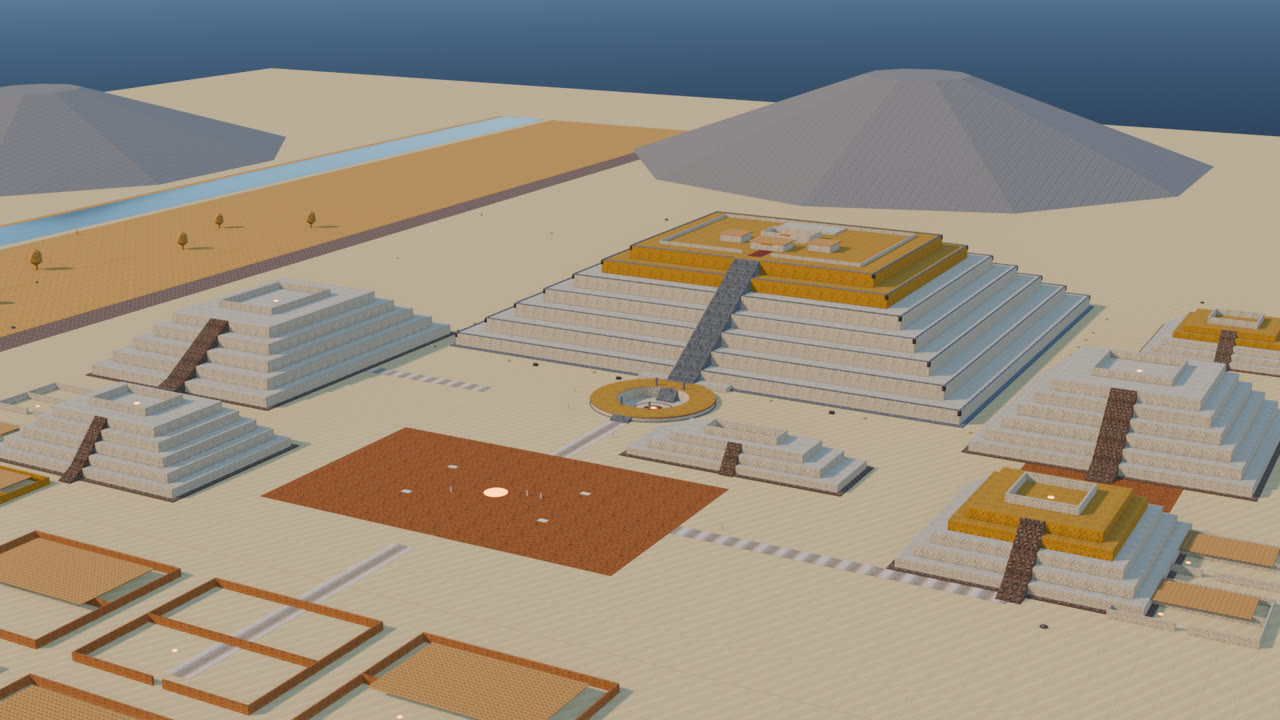
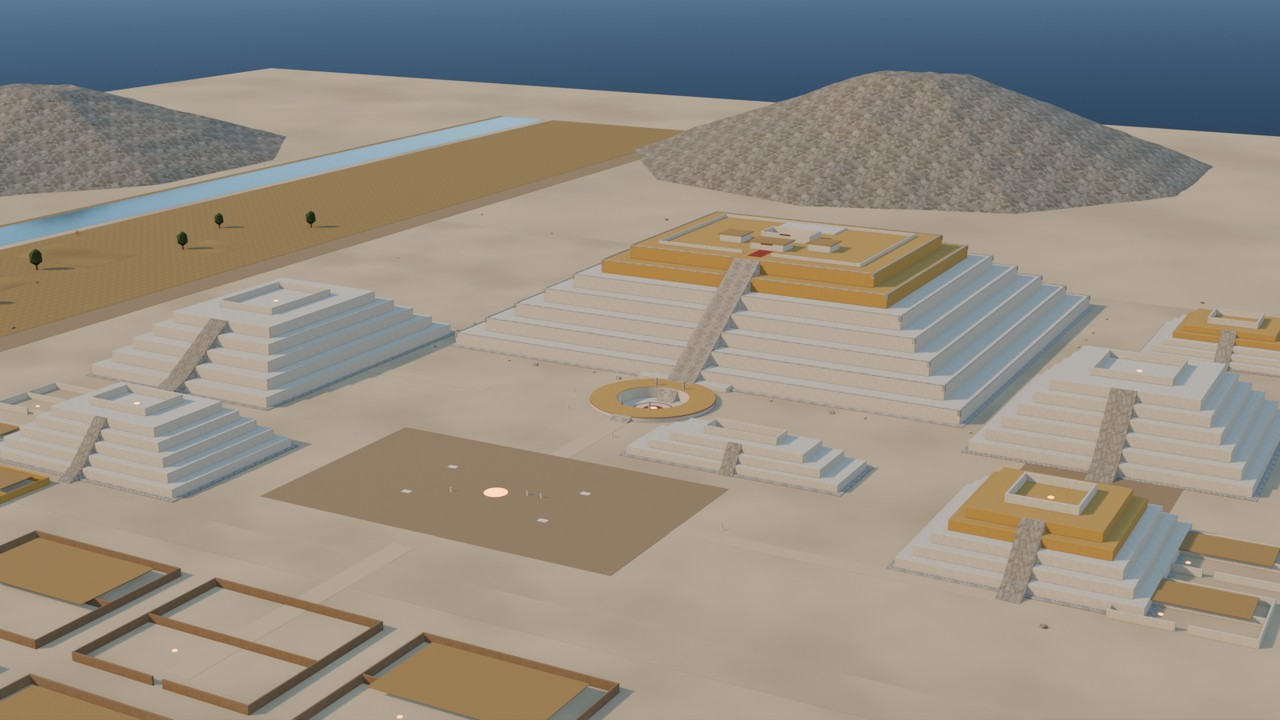
feat(caral): cerrar remaster v1 y metadatos de publicación

diff --git a/src/ui/city.js b/src/ui/city.js
@@ -70,7 +70,7 @@ export function renderCity(root, city) {
           <span class="eyebrow">${city.culture}</span>
           <h1>${city.name}</h1>
           <p>${city.subtitle}</p>
-          ${city.stage === 'piloto' ? '<span class="stage">Piloto · en remasterización</span>' : city.stage === 'preview' ? '<span class="stage">Remaster · preview</span>' : ''}
+          ${city.stage === 'piloto' ? '<span class="stage">Piloto · en remasterización</span>' : city.stage === 'v1' ? '<span class="stage">Remaster · v1</span>' : city.stage === 'preview' ? '<span class="stage">Remaster · preview</span>' : ''}
         </div>
         <div class="city-tools">
           <button id="sound" class="tool" type="button" aria-pressed="false">Sonido <span class="tool__dot"></span></button>

diff --git a/src/ui/catalog.js b/src/ui/catalog.js
@@ -3,7 +3,7 @@ export function renderCatalog(root, cities) {
   const cards = cities
     .map((city) => {
       const available = city.status === 'available';
-      const stage = city.stage === 'piloto' ? 'Piloto' : available ? 'Disponible' : 'En investigación';
+      const stage = city.stage === 'piloto' ? 'Piloto' : city.stage === 'v1' ? 'Remaster v1' : available ? 'Disponible' : 'En investigación';
       const media = city.thumb
         ? `<div class="city-card__media" style="background-image:url('${city.thumb}')"></div>`
         : `<div class="city-card__media city-card__media--empty" style="--accent:${city.accent}">

diff --git a/docs/estado.md b/docs/estado.md
@@ -21,12 +21,12 @@
 - Fase 3 (materiales) iniciada: pase procedural en 134 slots de arquitectura, plazas y suelo; banding corregido; GLB de prueba de 8,5 MB y 55.944 tris.
 - Terreno v1: arena macro 2K con UVs a gran escala en site apron, base, orilla y rambla; sin retícula visible.
 - Visor alineado: AgX, PMREM, luz cálida y cámara inicial desde el sur; recorrido 2–5 revisado y FOV responsivo en móvil; capturas en `docs/remaster/caral/viewer-*.jpg`.
-- RC local en `release/caral-remaster-final`: GLB de 4,8 MB, 20 materiales y 31 imágenes; sin texturas de IA; metadatos y caché `v3` preparados; no publicado.
+- Remaster v1 listo en `release/caral-remaster-final`: GLB de 4,8 MB, 20 materiales y 31 imágenes; sin texturas de IA; metadatos y caché `v3` preparados; pendiente PR y deploy.
 - Capturas en `docs/capturas/` y `docs/remaster/caral/`.
 
 ## Pendiente
 
-1. **Remaster de Caral**: completar arquitectura high-poly, bake y QA visual; materiales y terreno del preview ya están listos.
+1. **Remaster de Caral**: completar arquitectura high-poly, bake y QA visual; materiales y terreno del remaster v1 ya están listos.
 2. **Auditoría de texturas de Caral**: confirmar términos de las texturas de IA del piloto o sustituirlas por CC0/procedurales.
 3. **Chavín, Chan Chan y Wari**: modelos 3D, recorridos y fichas visuales.
 4. **Narración en español**: guion y grabación para el kiosco.
@@ -36,13 +36,13 @@
 
 ## Limitaciones conocidas
 
-- El preview del remaster conserva geometría esquemática; el piloto sigue publicado en `main`.
-- El pase procedural ya cubre arquitectura, plazas, suelo, terreno, roca, vegetación, adobe, totora y madera; el GLB del preview no incluye texturas de IA.
-- El GLB del piloto pesa ~20,7 MB; el GLB del preview del remaster pesa 4,8 MB y todavía no se publica.
+- El remaster v1 conserva geometría esquemática; el piloto sigue publicado en `main` hasta el merge.
+- El pase procedural ya cubre arquitectura, plazas, suelo, terreno, roca, vegetación, adobe, totora y madera; el GLB v1 no incluye texturas de IA.
+- El GLB del piloto pesa ~20,7 MB; el GLB v1 pesa 4,8 MB y está pendiente de PR/deploy.
 - El visor añade un plano de arena plano bajo el modelo; el terreno del GLB ya tiene variación macro.
 - Wari no está en la Lista del Patrimonio Mundial; su ficha se basa en Ministerio de Cultura y academia.
 - La narración aún no existe; solo hay ambiente procedural.
 
 ## Próximo paso recomendado
 
-Completar muros high-poly + bake y validar en hardware; después aprobar el reemplazo público del preview.
+Abrir PR, mergear y verificar Pages. High-poly/bake y hardware real quedan como v2.

diff --git a/docs/remaster/caral/release-v1.md b/docs/remaster/caral/release-v1.md
@@ -1,6 +1,6 @@
-# Release candidate local
+# Remaster v1
 
-Rama: `release/caral-remaster-final`. **No publicado**: `main` y GitHub Pages siguen con el piloto.
+Rama: `release/caral-remaster-final`. **Pendiente de PR y merge**: `main` y GitHub Pages siguen con el piloto.
 
 ## Modelo
 
@@ -15,29 +15,33 @@ Rama: `release/caral-remaster-final`. **No publicado**: `main` y GitHub Pages si
 
 ## Metadatos actualizados
 
-- `public/cities/caral/README.md` con hash, tamaño, tris, materiales, imágenes, licencias y estado preview.
+- `public/cities/caral/README.md` con hash, tamaño, tris, materiales, imágenes, licencias y estado v1.
 - `docs/fuentes/registro-assets.csv` con la fila del nuevo GLB.
-- `city.json`: `stage: "preview"` y créditos de preview.
-- Badge de la ficha: **Remaster · preview**.
+- `city.json`: `stage: "v1"` y créditos del remaster.
+- Badge de la ficha: **Remaster · v1**.
 - `public/sw.js` y `src/main.js`: caché `ciudades-sagradas-v3`.
-- `README.md`, `CREDITS.md`, `docs/estado.md` y dossier de remaster actualizados.
+- `README.md`, `CREDITS.md`, `docs/estado.md`, `hero.jpg` y dossier de remaster actualizados.
 
 ## QA local
 
 - `npm run validate`: OK.
 - `npm run build`: OK.
-- `npm run serve`: el visor carga el GLB del RC.
+- `npm run serve`: el visor carga el GLB v1.
 - Escritorio 1600×900: carga correcta.
 - Offline: primera carga online, luego recarga sin red; el modelo y las 5 paradas siguen disponibles desde la caché `v3`.
-- Badge **Remaster · preview** visible.
+- Badge **Remaster · v1** visible.
 - Modelo sin texturas de IA; auditoría en `licencias-assets.md`.
 
-## Pendiente antes de mergear
+## Pendiente para publicar v1
 
-- Prueba en hardware de museo y durante una sesión larga.
+- Abrir PR, pasar CI, mergear y verificar GitHub Pages.
+- Probar kiosco offline y sesión larga en hardware de museo.
+
+## Pendiente para v2
+
 - Muros high-poly + bake de normales/AO.
-- Aprobación visual del reemplazo.
-- Prueba de kiosco offline en el hardware final.
+- LOD1 y reducción de draw calls.
+- Arte final del hero/atardecer.
 
 ## Probar en local
 
@@ -58,4 +62,4 @@ Para volver al piloto, cambiar de rama o restaurar `public/cities/caral/model.gl
 
 ## Captura
 
-- `release-preview.jpg`
+- `release-v1.jpg`

diff --git a/docs/remaster/caral/materials.md b/docs/remaster/caral/materials.md
@@ -6,7 +6,7 @@ Sustituir las texturas de IA del piloto por un set PBR procedural propio para to
 
 ## Alcance aplicado
 
-- Todos los materiales visibles del preview son procedurales.
+- Todos los materiales visibles del remaster v1 son procedurales.
 - La última pasada reasignó 220 slots de objetos `GEO-Caral_`.
 - 14 materiales procedurales:
   - `MAT-Caral_Remaster_Plaster_White`
@@ -24,7 +24,7 @@ Sustituir las texturas de IA del piloto por un set PBR procedural propio para to
   - `MAT-Caral_Remaster_Thatch`
   - `MAT-Caral_Remaster_Wood`
 - `MAT-Caral_Stone_Megalith` usa `Stone_Field`; `MAT-Caral_ResourceRock` usa `Rock`.
-- El GLB del preview no incluye texturas de IA.
+- El GLB v1 no incluye texturas de IA.
 
 ## Corrección del banding
 
@@ -89,7 +89,7 @@ blender --background blender/caral/caral_remaster.blend \
 ## Resultado
 
[3 lines of base64/hex data omitted]
 - El piloto publicado sigue intacto: 20.749.488 bytes, 554 mallas, 44.640 tris.
 - Capturas: `materials-hero.jpg`, `materials-close.jpg`, `materials-detail.jpg`, `terrain-sand-hero.jpg`, `viewer-terrain.jpg`.
 
@@ -98,7 +98,7 @@ blender --background blender/caral/caral_remaster.blend \
 - No hay bake de AO ni normales desde high-poly; los normales son procedurales.
 - La geometría sigue siendo low-poly; falta la pasada high-poly.
 - El encuadre hero y la luz de atardecer definitivos aún requieren una pasada de arte.
-- El GLB del preview no se publica; `main` conserva el piloto con texturas de IA.
+- El GLB v1 se publica al mergear; el piloto histórico queda como archivo.
 - Falta validación en hardware de museo y sesión larga.
 
 ## Siguiente paso

diff --git a/README.md b/README.md
@@ -2,7 +2,7 @@
 
 Atlas interactivo de los grandes centros ceremoniales y ciudades del Perú antiguo. Reconstrucciones 3D en tiempo real, fichas educativas y fuentes públicas.
 
-**Estado:** Caral tiene un preview local del remaster; el piloto sigue publicado en `main`. Chavín de Huántar, Chan Chan y Wari están en investigación.
+**Estado:** Caral remaster v1; el piloto histórico queda como archivo. Chavín de Huántar, Chan Chan y Wari están en investigación.
 
 ## Qué es
 
@@ -66,7 +66,7 @@ Más detalles en [`docs/kiosco.md`](./docs/kiosco.md).
 
 | Ciudad | Cultura | Período | Estado |
 |---|---|---|---|
-| Caral | Civilización Caral | 3000–1800 a. C. | Preview remaster |
+| Caral | Civilización Caral | 3000–1800 a. C. | Remaster v1 |
 | Chavín de Huántar | Chavín | 1500–550 a. C. | En investigación |
 | Chan Chan | Chimú | Siglos IX–XV d. C. | En investigación |
 | Wari | Wari | 600–1100 d. C. | En investigación |
@@ -109,7 +109,7 @@ El visor no usa fotografías históricas como textura. Las imágenes oficiales s
 - Avisos de dependencias: [`THIRD_PARTY_NOTICES.md`](./THIRD_PARTY_NOTICES.md).
 - Política de assets: [`docs/licencias.md`](./docs/licencias.md).
 
-> **Nota de licencia:** el preview del remaster usa materiales procedurales y su GLB no incluye texturas de IA. El piloto publicado en `main` todavía conserva texturas de IA y sigue pendiente de auditoría. Ver `CREDITS.md` y `docs/licencias.md`.
+> **Nota de licencia:** el remaster v1 usa materiales procedurales y su GLB no incluye texturas de IA. El piloto histórico queda como archivo y no se publica. Ver `CREDITS.md` y `docs/licencias.md`.
 
 ## Despliegue
 

diff --git a/docs/remaster/caral/README.md b/docs/remaster/caral/README.md
@@ -1,8 +1,8 @@
 # Remaster de Caral
 
-Rama técnica: `feat/caral-remaster-phase-2`. RC local: `release/caral-remaster-final`. El piloto actual sigue vivo en `main` hasta que el remaster pase QA.
+Rama técnica: `feat/caral-remaster-phase-2`. Remaster v1: `release/caral-remaster-final`. El piloto actual sigue vivo en `main` hasta el merge.
 
-Estado: RC local con materiales 100 % procedurales, GLB sin texturas de IA, visor alineado, recorrido revisado, QA móvil/kiosco/offline y terreno v2; falta high-poly/bake, hardware real y aprobación de reemplazo.
+Estado: remaster v1 listo para PR, con materiales 100 % procedurales, GLB sin texturas de IA, visor alineado, recorrido revisado, QA móvil/kiosco/offline y terreno v2; high-poly/bake y hardware real quedan para v2.
 
 ## Decisiones fijadas
 
@@ -30,8 +30,8 @@ Estado: RC local con materiales 100 % procedurales, GLB sin texturas de IA, viso
 - `terrain.md`: primer pase de terreno y capturas antes/después.
 - `materials.md`: pase procedural, corrección del banding, mapeo y GLB de prueba.
 - `viewer.md`: alineación de cámara, AgX, PMREM y capturas antes/después.
-- `release-preview.md`: RC local, metadatos, caché v3 y QA offline.
-- `licencias-assets.md`: auditoría del GLB del preview, sin texturas de IA.
+- `release-v1.md`: remaster v1, metadatos, caché v3 y QA offline.
+- `licencias-assets.md`: auditoría del GLB v1, sin texturas de IA.
 
 ## Criterios de aceptación
 

diff --git a/public/cities/caral/README.md b/public/cities/caral/README.md
@@ -1,4 +1,4 @@
-# Modelo de Caral — preview del remaster
+# Modelo de Caral — remaster v1
 
 - **Archivo:** `model.glb`
 - **Tamaño:** 4.778.308 bytes
@@ -11,7 +11,7 @@
[1 lines of base64/hex data omitted]
 - **Geometría:** proyecto Ciudades Sagradas / José Amaya.
 - **Texturas:** procedurales propias en arquitectura, plazas, suelo, arena, roca, vegetación, adobe, totora y madera. **Sin texturas de IA en este GLB.**
-- **Licencia:** geometría CC BY 4.0; texturas procedurales del proyecto. El piloto de `main` todavía conserva texturas de IA y sigue pendiente de auditoría.
+- **Licencia:** geometría CC BY 4.0; texturas procedurales del proyecto. El piloto histórico queda como material de archivo; el GLB de esta versión no contiene texturas de IA.
 - **Escala:** el visor aplica `0.08` para pasar de unidades Blender a metros de escena.
-- **Estado:** preview local del remaster. No es el reemplazo final ni está publicado en `main`.
+- **Estado:** remaster v1. Listo para publicar en `main` tras el PR y la verificación de Pages.
 - **Export reproducible:** `blender/caral/export.py`, WebP calidad 80.

diff --git a/CREDITS.md b/CREDITS.md
@@ -9,9 +9,9 @@
 ## Caral
 
 - **Geometría:** escena de arte del proyecto Caral, modelada en Blender 5.2.
-- **Texturas:** preview del remaster con materiales procedurales en arquitectura, plazas, suelo, arena, roca, vegetación, adobe, totora y madera. El GLB del preview no incluye texturas de IA.
+- **Texturas:** remaster v1 con materiales procedurales en arquitectura, plazas, suelo, arena, roca, vegetación, adobe, totora y madera. El GLB no incluye texturas de IA.
 - **Portada:** render de Blender `caral_art_hero_v2.png`, proyecto Ciudades Sagradas.
-- **Estado de licencia:** el GLB del preview usa solo texturas procedurales propias y geometría CC BY 4.0. El piloto de `main` todavía contiene texturas de IA pendientes de auditoría.
+- **Estado de licencia:** el GLB del remaster v1 usa solo texturas procedurales propias y geometría CC BY 4.0. El piloto histórico conserva texturas de IA y no se publica.
 - **Fuentes históricas:** UNESCO, ICOMOS, Ministerio de Cultura del Perú, Zona Arqueológica Caral y publicación de Shady Solís et al. (2001). Ver `docs/fuentes/caral.md`.
 
 ## Chavín de Huántar

diff --git a/docs/remaster/caral/plan.md b/docs/remaster/caral/plan.md
@@ -6,7 +6,7 @@
 - Banding de textura corregido; UV de la Mayor verificadas.
 - GLB de prueba: 8,5 MB, 55.944 tris, 21 materiales, 36 imágenes WebP.
 - El piloto sigue publicado; el remaster no se ha mergeado.
-- RC local en `release/caral-remaster-final`: GLB 4,8 MB, sin texturas de IA, metadatos y caché `v3`; pendiente high-poly/bake y aprobación.
+- Remaster v1 listo en `release/caral-remaster-final`: GLB 4,8 MB, sin texturas de IA, metadatos y caché `v3`; pendiente PR/deploy. High-poly/bake queda para v2.
 - Visor: AgX, PMREM, cámara inicial equivalente al hero de Blender; stops 2–5 revisados; FOV móvil responsivo.
 - Terreno v2: arena macro, roca, campos y vegetación procedurales; GLB sin texturas de IA.
 
@@ -45,7 +45,7 @@
 - [x] Biblioteca PBR procedural completa (madera, totora, vegetación).
 - [ ] UVs y atlas por región.
 - [ ] Normales y AO horneados.
-- [x] Eliminar texturas de IA del preview final.
+- [x] Eliminar texturas de IA del remaster v1.
 
 ## Fase 4 — Ambiente
 

diff --git a/docs/remaster/caral/licencias-assets.md b/docs/remaster/caral/licencias-assets.md
@@ -1,8 +1,8 @@
-# Auditoría de assets del preview
+# Auditoría de assets del remaster v1
 
 ## Resultado
 
-El GLB del preview no contiene texturas de IA. Todas las imágenes provienen de `blender/textures/generated/remaster/` y fueron generadas por los scripts procedurales del proyecto.
+El GLB del remaster v1 no contiene texturas de IA. Todas las imágenes provienen de `blender/textures/generated/remaster/` y fueron generadas por los scripts procedurales del proyecto.
 
 ## Materiales con textura procedural
 
@@ -32,5 +32,5 @@ El GLB del preview no contiene texturas de IA. Todas las imágenes provienen de 
 
 ## Alcance
 
-- **Preview:** limpio, sin texturas de IA.
-- **Piloto de `main`:** todavía contiene texturas de IA; su auditoría es independiente y sigue pendiente.
+- **Remaster v1:** limpio, sin texturas de IA.
+- **Piloto histórico:** todavía contiene texturas de IA; no se publica.

diff --git a/docs/remaster/caral/terrain.md b/docs/remaster/caral/terrain.md
@@ -53,13 +53,13 @@ Las colinas ganan silueta, pero el cambio es insuficiente para reemplazar el pil
 - Roca procedural de celdas y craquelado en las 6 colinas; UV 0,25 para que las celdas se lean a escala de montaña.
 - Campos con `dry_grass` procedural y UV 0,05; hojas con `foliage`.
 - Adobe, totora, madera, megalitos y rocas pequeñas también pasaron a materiales procedurales.
-- El GLB del preview no incluye texturas de IA.
+- El GLB v1 no incluye texturas de IA.
 
 ### Capturas
 
 - `terrain-sand-hero.jpg`: render de Blender.
 - `terrain-final-iso.jpg`: vista isométrica con roca, campos y cubiertas.
-- `viewer-terrain.jpg`: visor web con el GLB del preview.
+- `viewer-terrain.jpg`: visor web con el GLB v1.
 
 ### Pendiente
 
